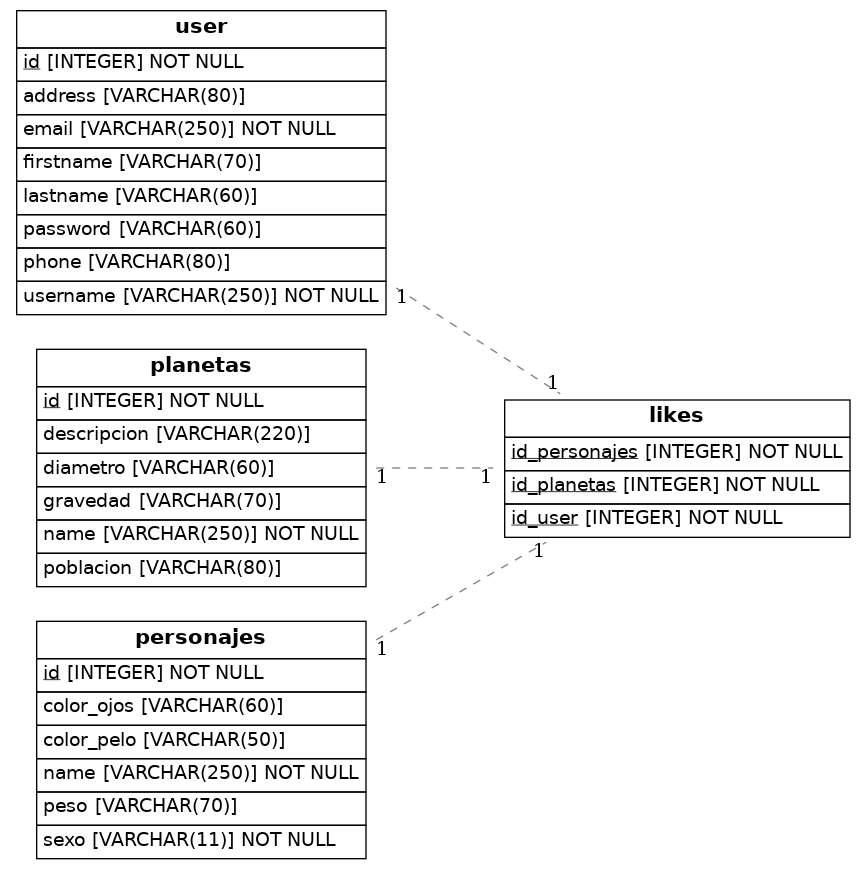
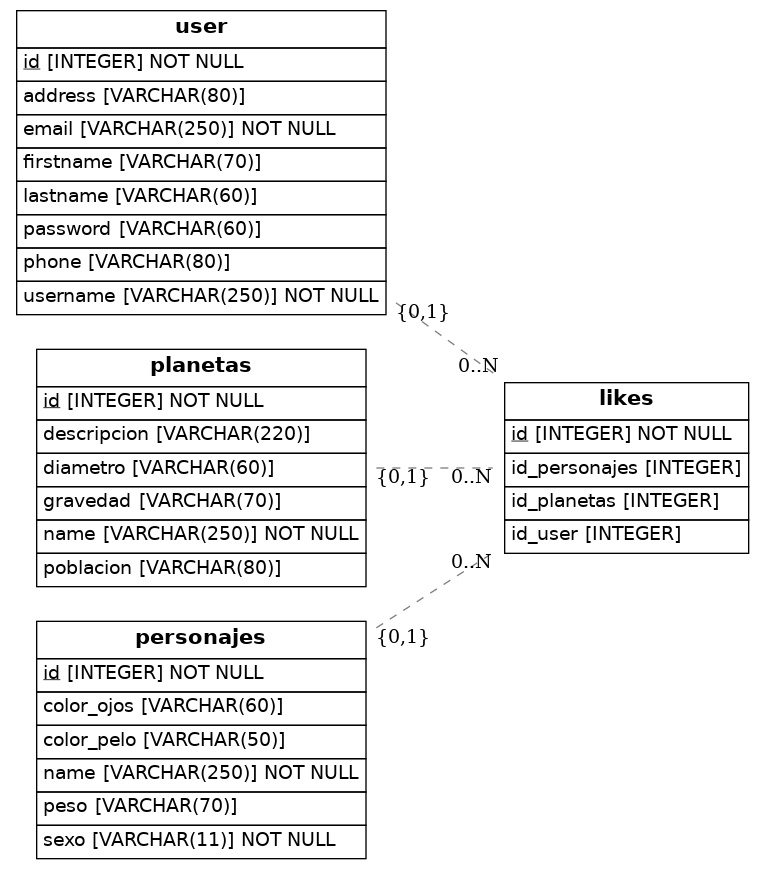
terminado

diff --git a/src/models.py b/src/models.py
@@ -54,9 +54,10 @@ class Likes(Base):
     __tablename__ = 'likes'
     # Here we define columns for the table person
     # Notice that each column is also a normal Python instance attribute.
-    id_planetas = Column(Integer, ForeignKey('planetas.id'), primary_key=True)
-    id_personajes = Column(Integer, ForeignKey('personajes.id'), primary_key=True)
-    id_user = Column(Integer, ForeignKey('user.id'), primary_key=True)
+    id = Column(Integer, primary_key=True, autoincrement=True)
+    id_planetas = Column(Integer, ForeignKey('planetas.id'),  nullable=True)
+    id_personajes = Column(Integer, ForeignKey('personajes.id'),  nullable=True)
+    id_user = Column(Integer, ForeignKey('user.id'))
 
     user = relationship('User', back_populates='likes')
     planetas = relationship('Planetas', back_populates='likes')
